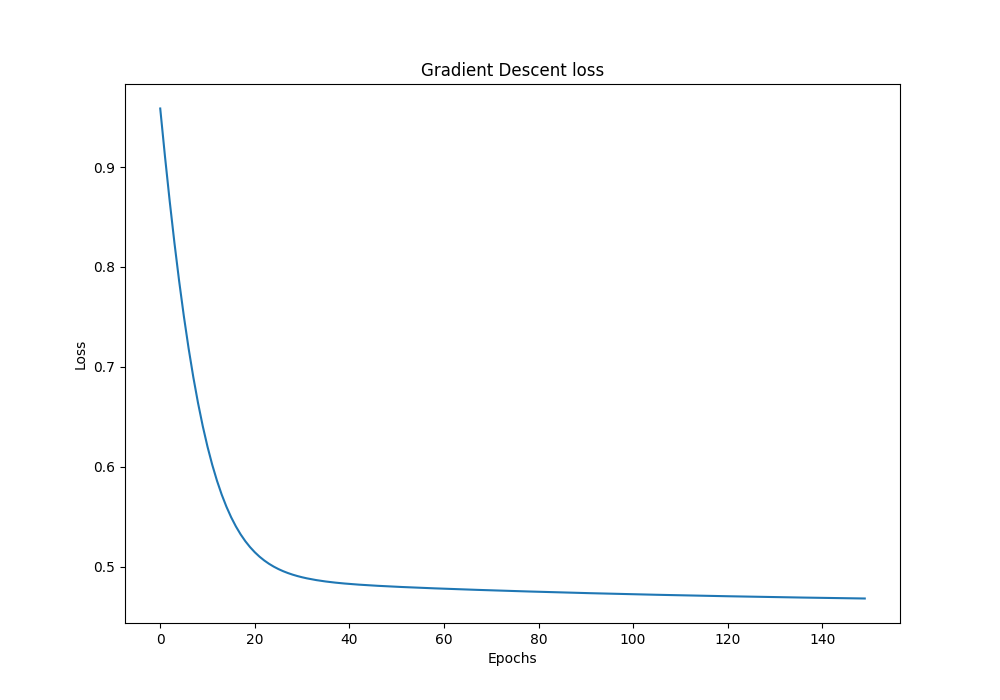
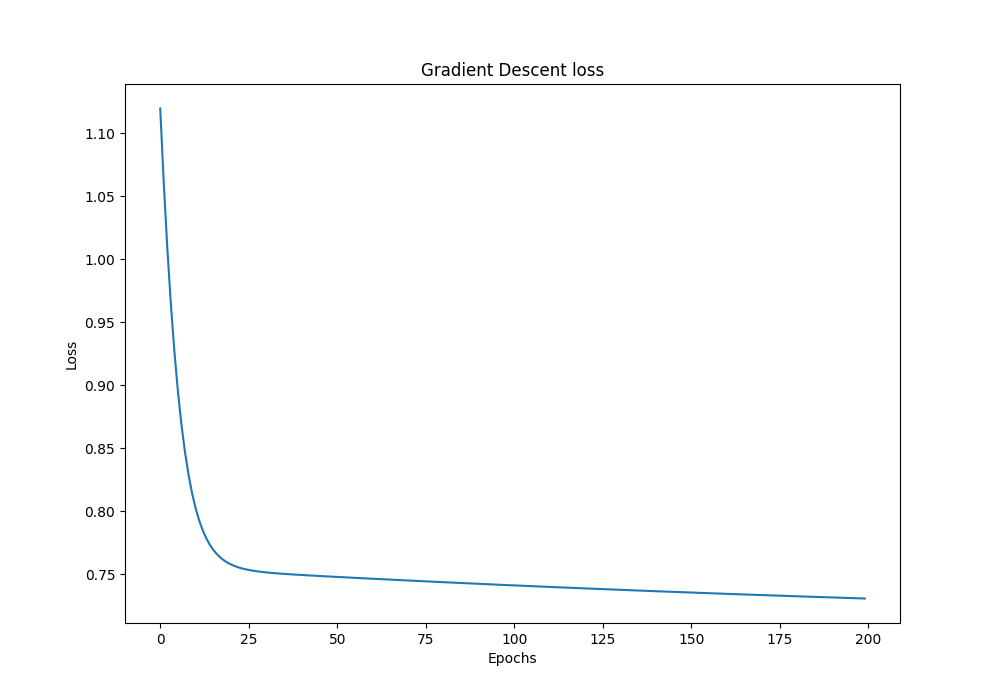
updated gradient descent and implemented sgd

diff --git a/learning/sgd.py b/learning/sgd.py
@@ -1,0 +1,60 @@
+import numpy as np
+import matplotlib.pyplot as plt
+
+
+class SGD:
+    def __init__(self, X, y, W, b, lr=1e-3) -> None:
+        self.X = X
+        self.y = y
+        self.W = W
+        self.b = b
+        self.lr = lr
+
+    def sigmoid(self, X):
+        return 1/(1+np.exp(-self.linear(X)))
+
+    def linear(self, X):
+        return np.dot(X, self.W) + self.b
+
+    def gradient(self, X, y):
+        fx = self.sigmoid(X)
+        db = (fx-y) * fx * (1-fx)
+        dw = X*db
+
+        return dw, db
+
+    def loss(self, X, y):
+        fx = self.sigmoid(X)
+
+        return np.square(y-fx)
+
+    def train(self, n_epochs):
+        for i in range(n_epochs):
+            loss = 0
+            for j in range(self.X.shape[0]):
+                dw, db = self.gradient(self.X[j], self.y[j])
+                self.W -= self.lr*dw.reshape(self.W.shape)
+                self.b -= self.lr*db
+
+                loss += self.loss(self.X[j], self.y[j])
+            
+            yield loss
+
+if __name__ == '__main__':
+
+    W = np.random.rand(2,1)
+    b = np.random.rand(1,1)
+    X = np.random.rand(10,2)
+    y = np.random.rand(10,1)
+    n_epochs =150
+
+    optimizer = SGD(X,y,W,b, lr=1e-1)
+    losses = np.fromiter(optimizer.train(n_epochs), dtype=np.float64)
+    losses = losses.flatten()
+
+    fig, axs = plt.subplots(figsize=(10,7))
+    plt.plot(list(range(len(losses))), losses)
+    plt.title("SGD loss")
+    plt.ylabel('Loss')
+    plt.xlabel('Steps')
+    plt.savefig('../artifacts/sgd-loss.png')

diff --git a/learning/gradient-descent.py b/learning/gradient-descent.py
@@ -13,7 +13,7 @@ class GradientDescent:
         self.mask = np.ones((X.shape[0], 1))
 
     def sigmoid(self):
-        return 1/(1+np.exp(-(np.matmul(self.X, self.W)+self.b*self.mask)))
+        return 1/(1+np.exp(-self.linear()))
 
     def linear(self):
         return np.matmul(self.X, self.W) + self.b*self.mask
@@ -46,7 +46,7 @@ if __name__ == '__main__':
     b = np.random.rand(1,1)
     X = np.random.rand(10,2)
     y = np.random.rand(10,1)
-    n_epochs =150
+    n_epochs =200
 
     optimizer = GradientDescent(X,y,W,b, lr=1e-1)
     losses = list(optimizer.train(n_epochs))
